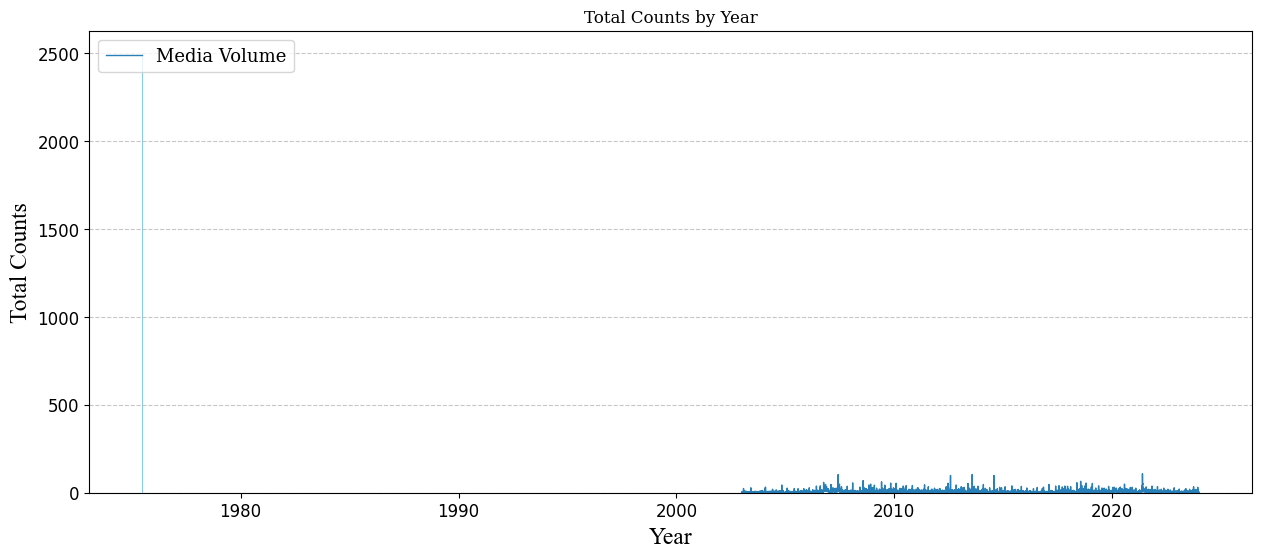
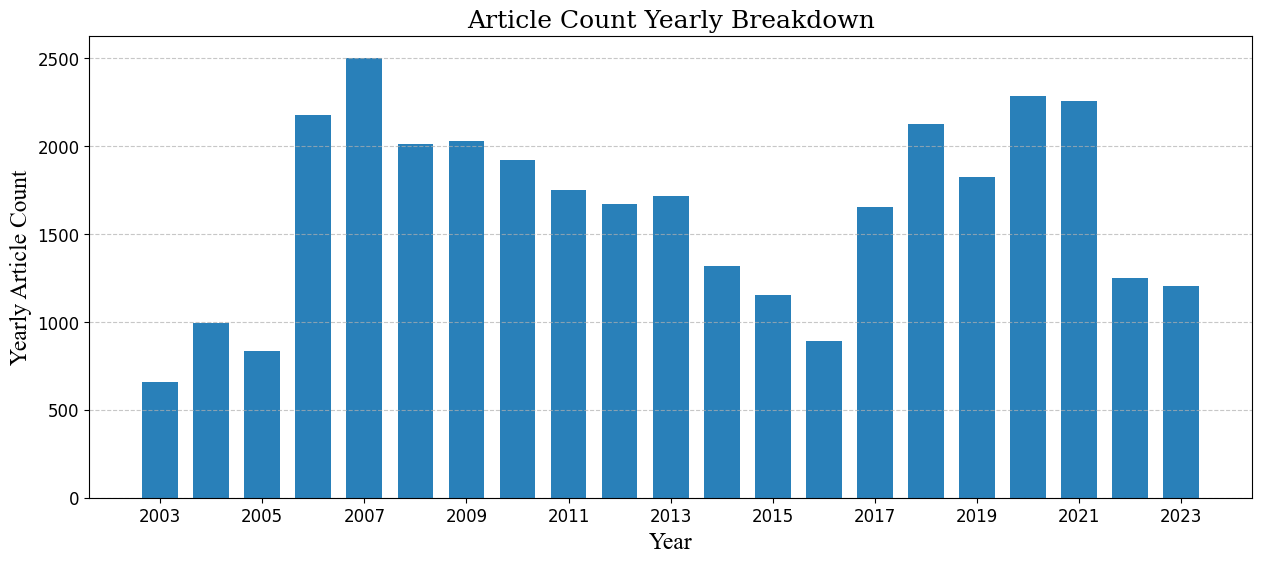
done

diff --git a/Plot_Trading_days_data.py b/Plot_Trading_days_data.py
@@ -81,6 +81,7 @@ plt.grid(axis='y', linestyle='--', alpha=0.7)
 plt.tick_params(axis='both', which='major', labelsize=12)
 #plt.savefig('Plots/Media_Volume_Over_Time.png', bbox_inches='tight')
 #plt.show()
+plt.close()
 
 ######################################
 # Get yearly article count breakdown
@@ -98,10 +99,14 @@ for year, total_count in yearly_counts.items():
 # Create a bar chart
 years = list(yearly_counts.keys())
 total_counts = list(yearly_counts.values())
-plt.bar(years, total_counts, color='skyblue')
-plt.xlabel('Year')
-plt.ylabel('Total Counts')
-plt.title('Total Counts by Year')
+plt.figure(figsize=(15, 6))
+plt.bar(years, total_counts, width=.7, color='#2980b9')
+plt.xlabel('Year', fontsize=17, fontname='Times New Roman')
+plt.ylabel('Yearly Article Count', fontsize=17, fontname='Times New Roman')
+plt.xticks(range(min(years), max(years)+1, 2))
+plt.title('Article Count Yearly Breakdown', fontsize=18, fontfamily='serif')
+plt.grid(axis='y', linestyle='--', alpha=0.7)
+plt.tick_params(axis='both', which='major', labelsize=12)
 plt.savefig('Plots/Article_Count_Yearly_Breakdown.png', bbox_inches='tight')
 ######################################
 
